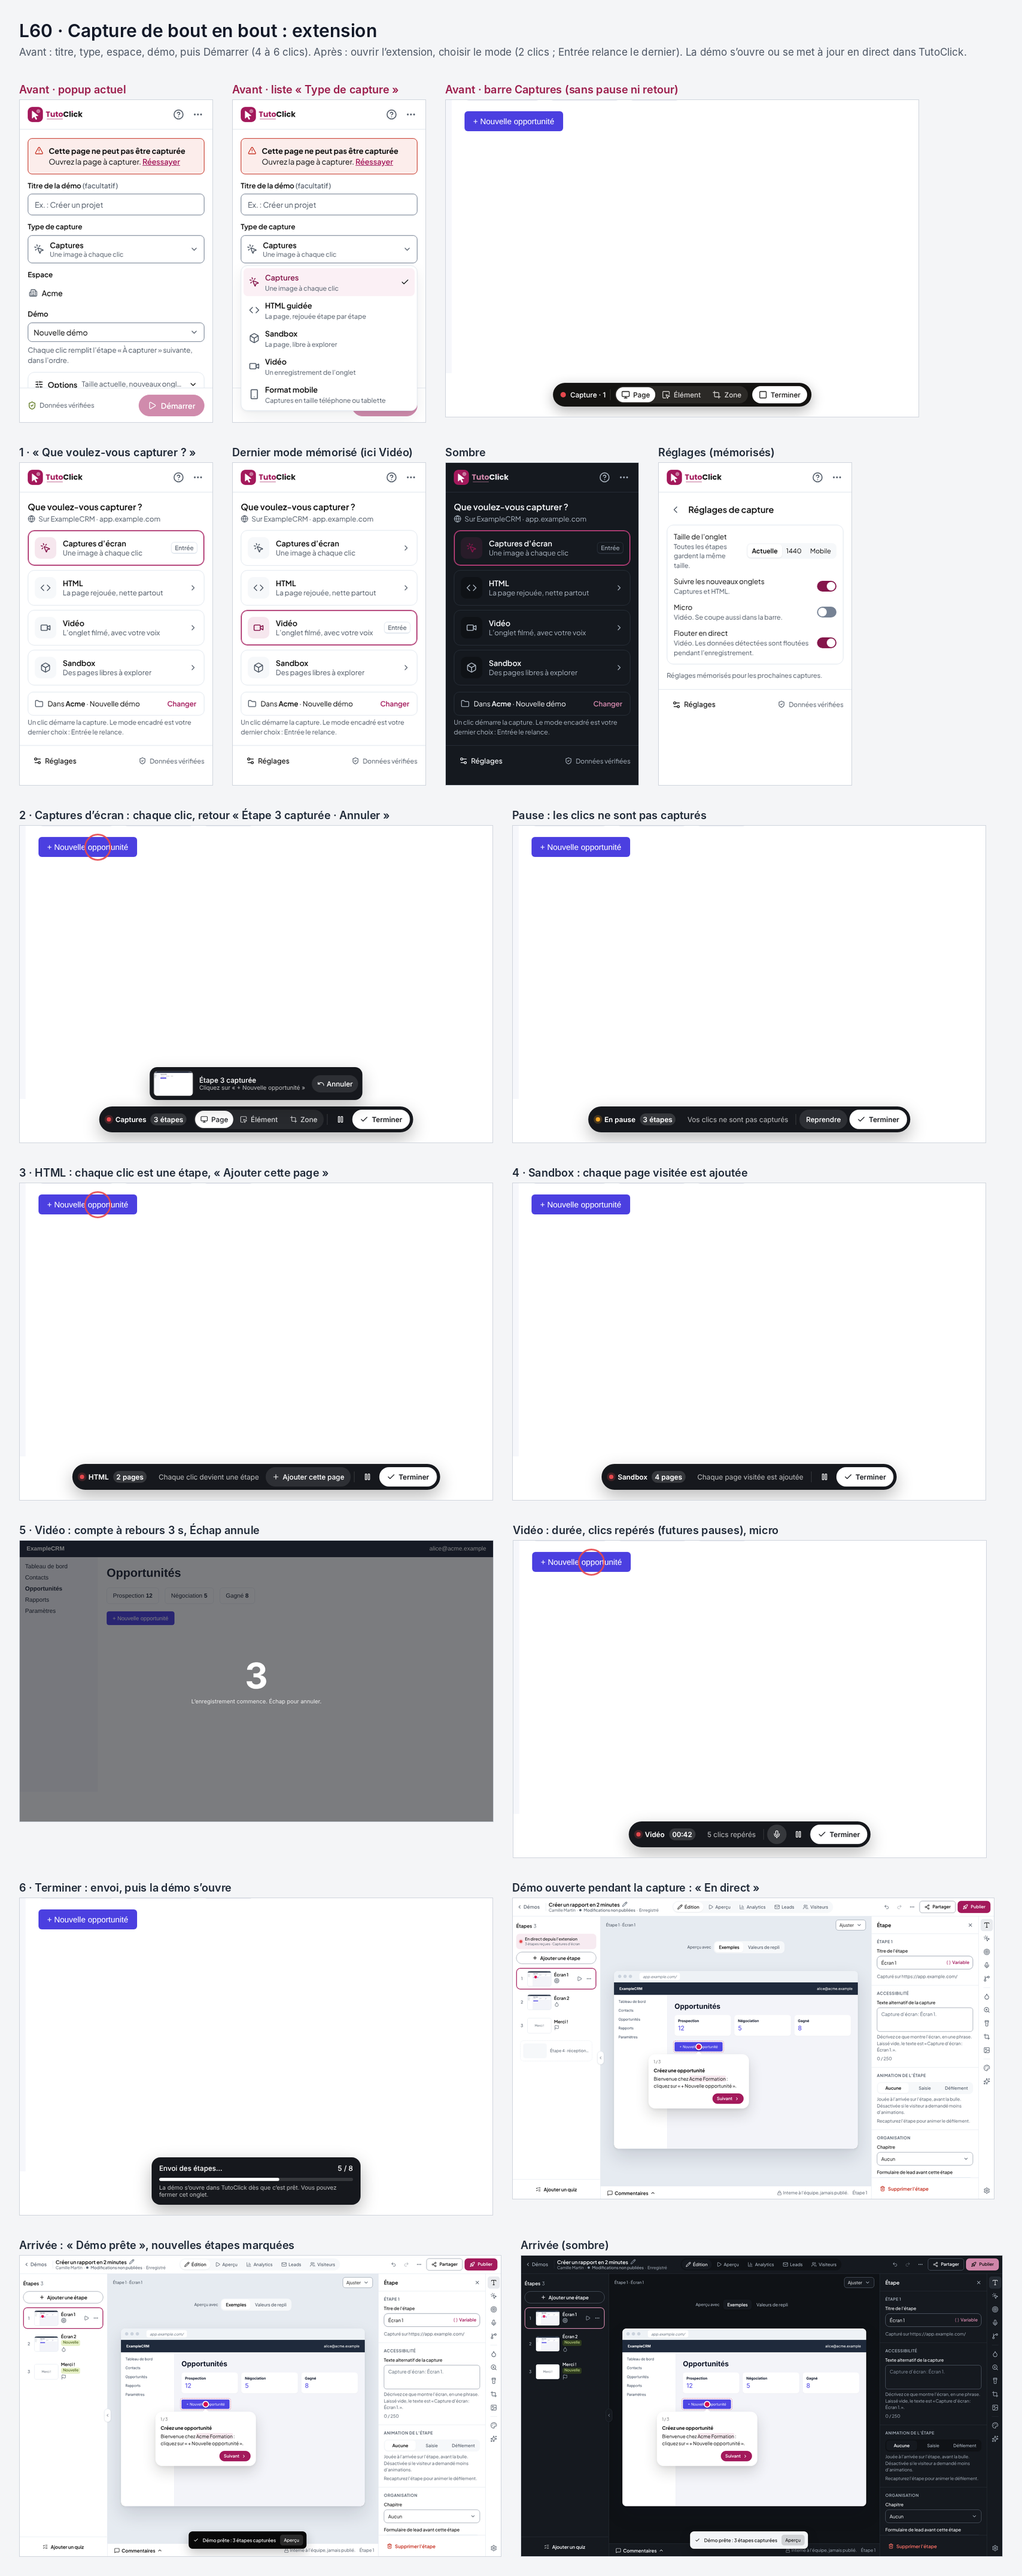
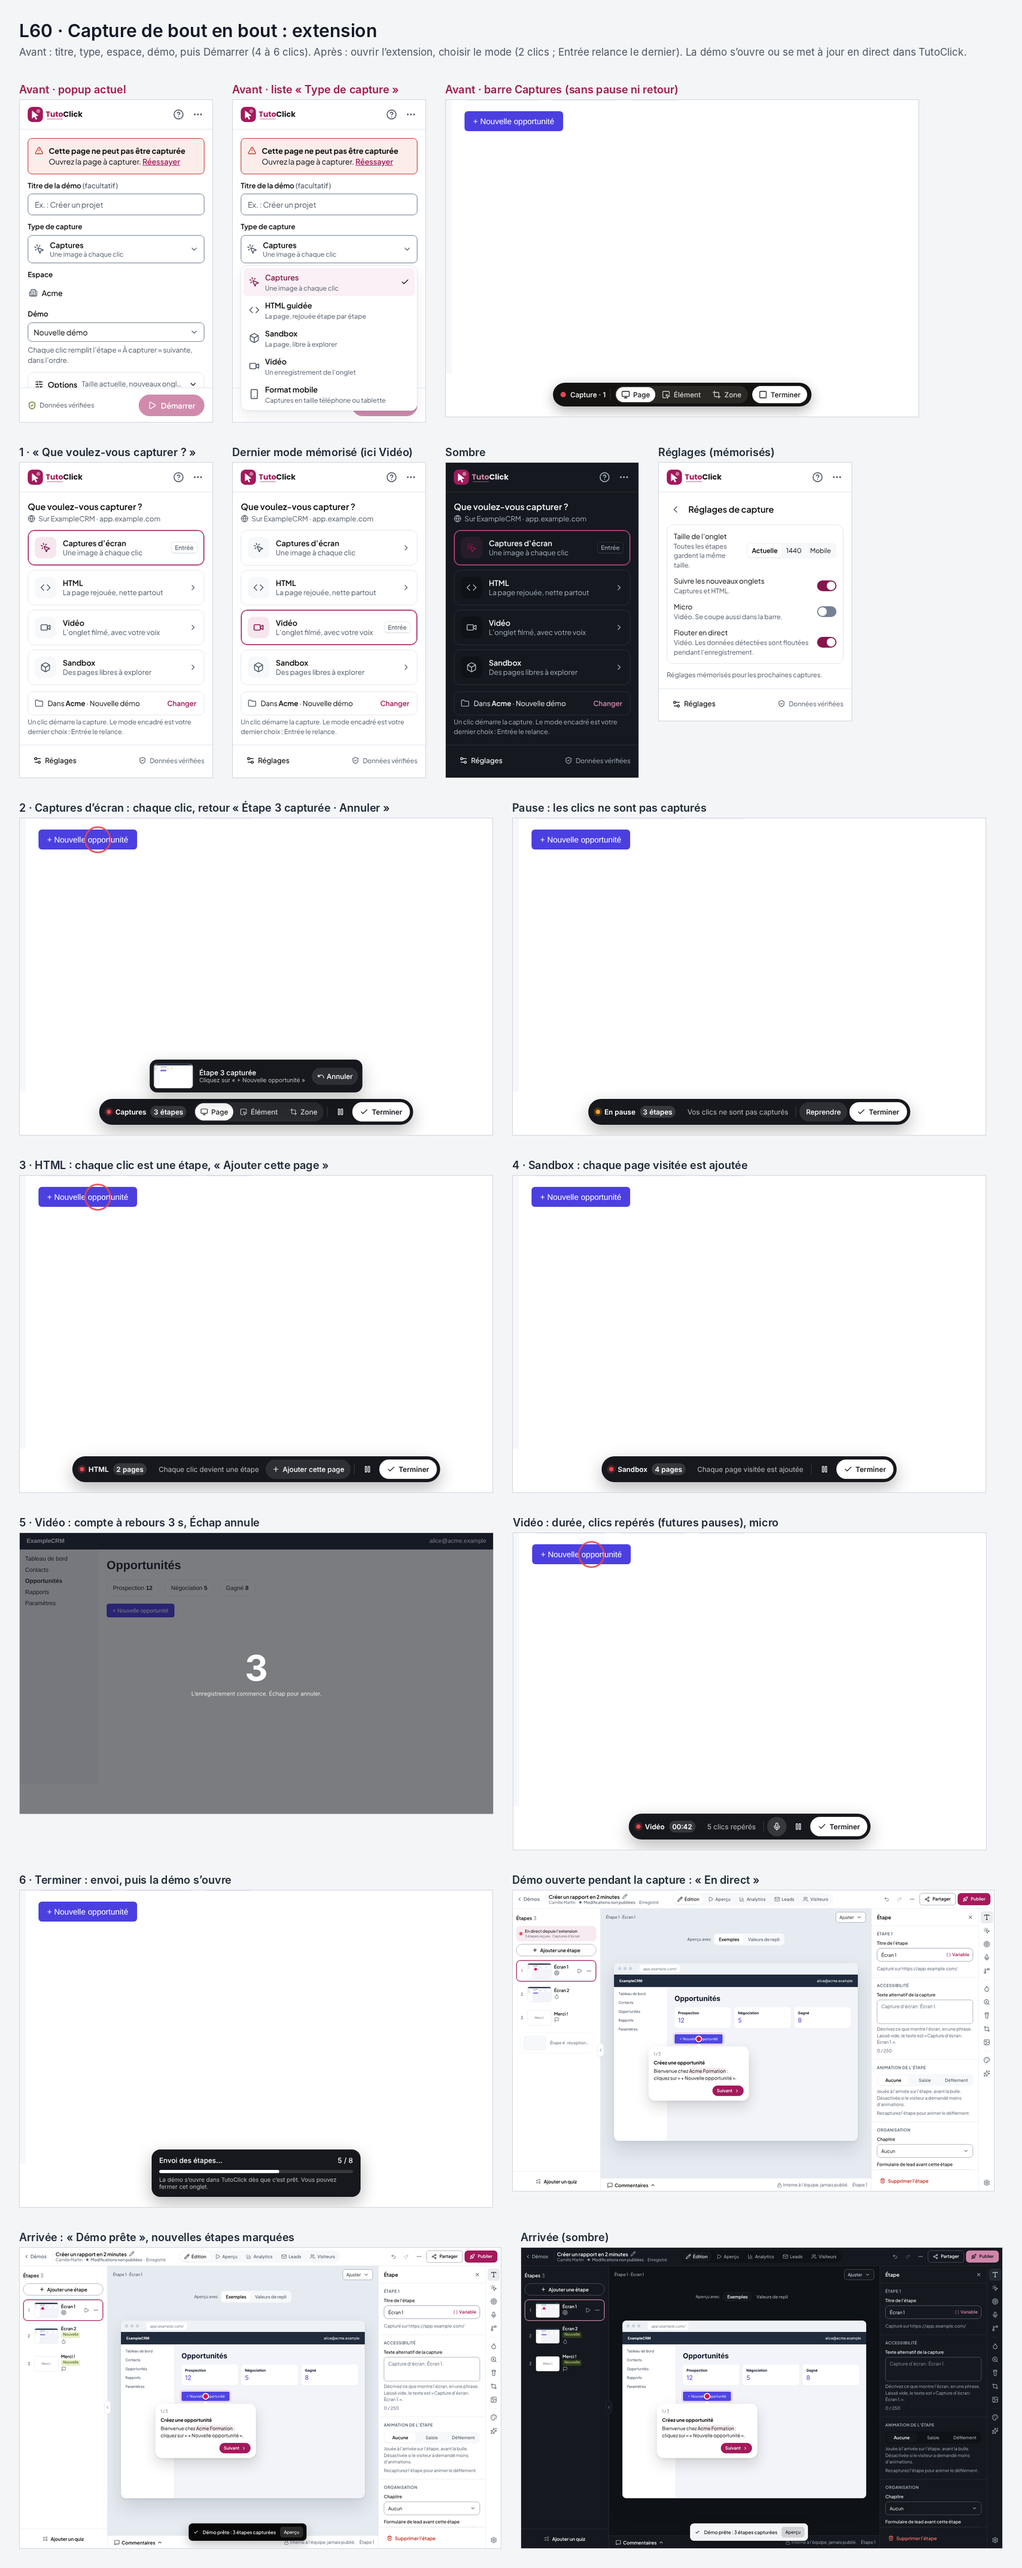
L60/L64 : popup à la hauteur du contenu (16 px sous le pied), « Rédaction automatique » au lieu de « AI Copilot »
Claude-Session: https://claude.ai/code/session_016yn81XNDaqi4emq7ho6CNv

diff --git a/docs/ux/specs/l64-extension-complements.md b/docs/ux/specs/l64-extension-complements.md
@@ -1,4 +1,4 @@
-# L64 — Extension : menu ⋯, destination, AI Copilot, apparence
+# L64 — Extension : menu •••, destination, rédaction automatique, apparence
 
 Ce document complète L60 (`l60-capture-bout-en-bout.md`). Planche : `docs/ux/propositions/l64/planche-l64-extension.png` (popup de 360 px, clair et sombre, plus la barre de capture claire et sombre).
 
@@ -27,12 +27,15 @@ C'est une vue du popup, avec un bouton Retour et le titre « Destination ». Les
 - En bas de la vue, la ligne **Espace** (tuile et nom) avec « Changer », qui ouvre la liste du menu ⋯.
 - Dans la vue des modes, la ligne de destination devient « Dans **Acme** · Ventes · Nouvelle démo ». Le texte est tronqué avec des points de suspension.
 
-## 3. AI Copilot
+## 3. Rédaction automatique
 
-C'est un réglage, en tête de la vue Réglages, dans un encadré teinté de marque (rayon 12) : icône Sparkles, « AI Copilot », et un interrupteur.
+Le nom est générique, en français, sous notre marque. Aucun nom de fournisseur ni de modèle n'apparaît dans l'extension (l'ancien nom de travail « AI Copilot » est abandonné).
 
-- Aide : « Rédige le titre et le texte de chaque étape pendant la capture, à partir du clic et de la page. Vous relisez dans l'éditeur. »
-- Sous les réglages : « AI Copilot utilise le quota IA de l'espace (1 crédit par étape). Désactivé si l'espace n'autorise pas l'IA. »
+C'est un réglage, en tête de la vue Réglages, dans un encadré teinté de marque (rayon 12) : icône Sparkles, « Rédaction automatique », et un interrupteur.
+
+- Aide : « L'IA de TutoClick rédige le titre et le texte de chaque étape pendant la capture. Vous relisez dans l'éditeur. »
+- Sous les réglages : « La rédaction automatique utilise le quota IA de l'espace (1 crédit par étape). Désactivée si l'espace n'autorise pas l'IA. »
+- Le modèle utilisé est choisi par le propriétaire de la plateforme dans la Console (L41, page « Modèles IA »).
 - Si l'espace n'autorise pas l'IA, l'encadré reste visible, avec l'interrupteur désactivé et « Désactivé par l'espace ».
 - **Pendant la capture** : la carte « Étape n capturée » ajoute une ligne « Texte proposé : « … » », précédée de l'icône Sparkles.
   - Le texte arrive en moins de 2 s. En attendant, la ligne affiche « Rédaction… » avec un battement d'opacité (MOTION-01).
@@ -51,12 +54,20 @@ C'est un réglage, en tête de la vue Réglages, dans un encadré teinté de mar
 - **Barre sombre** : celle de L60. Elle reste lisible sur tous les sites, et c'est le choix conseillé sur des pages claires chargées.
 - Les deux barres ont la même géométrie : 48 px de haut, contrôles de 36 px sur le même centre.
 
-## 5. e2e
+## 5. Hauteur du popup (toutes les vues L60 et L64)
+
+- Le popup s'arrête à la hauteur du contenu : aucune hauteur fixe ni minimale, 600 px au plus (avec défilement du corps au-delà).
+- Le pied a 12 px au-dessus et **16 px en bas**, comme les 16 px du haut du corps : il n'y a pas de vide sous « Réglages · Données vérifiées ».
+- Vérifié dans toutes les vues de la planche (Modes, Menu, Destination, Ajouter à une démo, Réglages), en clair et en sombre.
+
+## 6. e2e
 
 - Menu ⋯ : les espaces sont listés et le courant est coché. Changer d'espace met à jour la destination. Se déconnecter pendant une capture demande une confirmation.
 - Destination : le dossier choisi est mémorisé après une nouvelle ouverture du popup. « Ajouter à une démo » ajoute les étapes à la fin de la démo choisie.
-- AI Copilot :
+- Rédaction automatique :
   - avec l'IA désactivée dans l'espace, l'interrupteur est désactivé et visible ;
   - avec l'IA activée (faux fournisseur), la carte montre le texte proposé, et l'étape arrive avec le texte et la mention IA ;
   - aucune image n'est envoyée au fournisseur.
 - Apparence : Clair, Sombre et Système s'appliquent à la barre. Mêmes mesures dans les deux thèmes.
+- Hauteur : la hauteur du document du popup est égale à celle de son contenu (pas de bande vide sous le pied), et le pied a 16 px en bas.
+- Aucun nom de fournisseur (Anthropic, OpenAI, Claude, ChatGPT, ElevenLabs) dans les textes de l'extension.

diff --git a/docs/ux/specs/l60-capture-bout-en-bout.md b/docs/ux/specs/l60-capture-bout-en-bout.md
@@ -33,7 +33,8 @@ Décision du client du 25/11 : la capture est la priorité absolue. Planche : `d
   - Par défaut : le dernier espace utilisé, et une nouvelle démo.
 - **Titre de la démo** : le champ disparaît du popup. La démo prend le titre de l'onglet (« ExampleCRM ») et se renomme dans l'éditeur, en un clic sur le titre.
 - **Aide** sous la destination : « Un clic démarre la capture. Le mode encadré est votre dernier choix : Entrée le relance. »
-- **Pied** : à gauche, **Réglages** (icône Sliders) ; à droite, « Données vérifiées » (comme aujourd'hui).
+- **Pied** : à gauche, **Réglages** (icône Sliders) ; à droite, « Données vérifiées » (comme aujourd'hui). Il a 12 px au-dessus et 16 px en bas.
+- **Hauteur** : le popup s'arrête à la hauteur du contenu, sans hauteur fixe ni minimale, 600 px au plus.
 - **Réglages** : une vue du popup avec un bouton Retour. Tous les réglages sont mémorisés.
   - **Taille de l'onglet** : Actuelle, 1440 ou Mobile. « Format mobile » cesse d'être un type de capture et devient ce réglage.
   - **Suivre les nouveaux onglets** (Captures et HTML).
